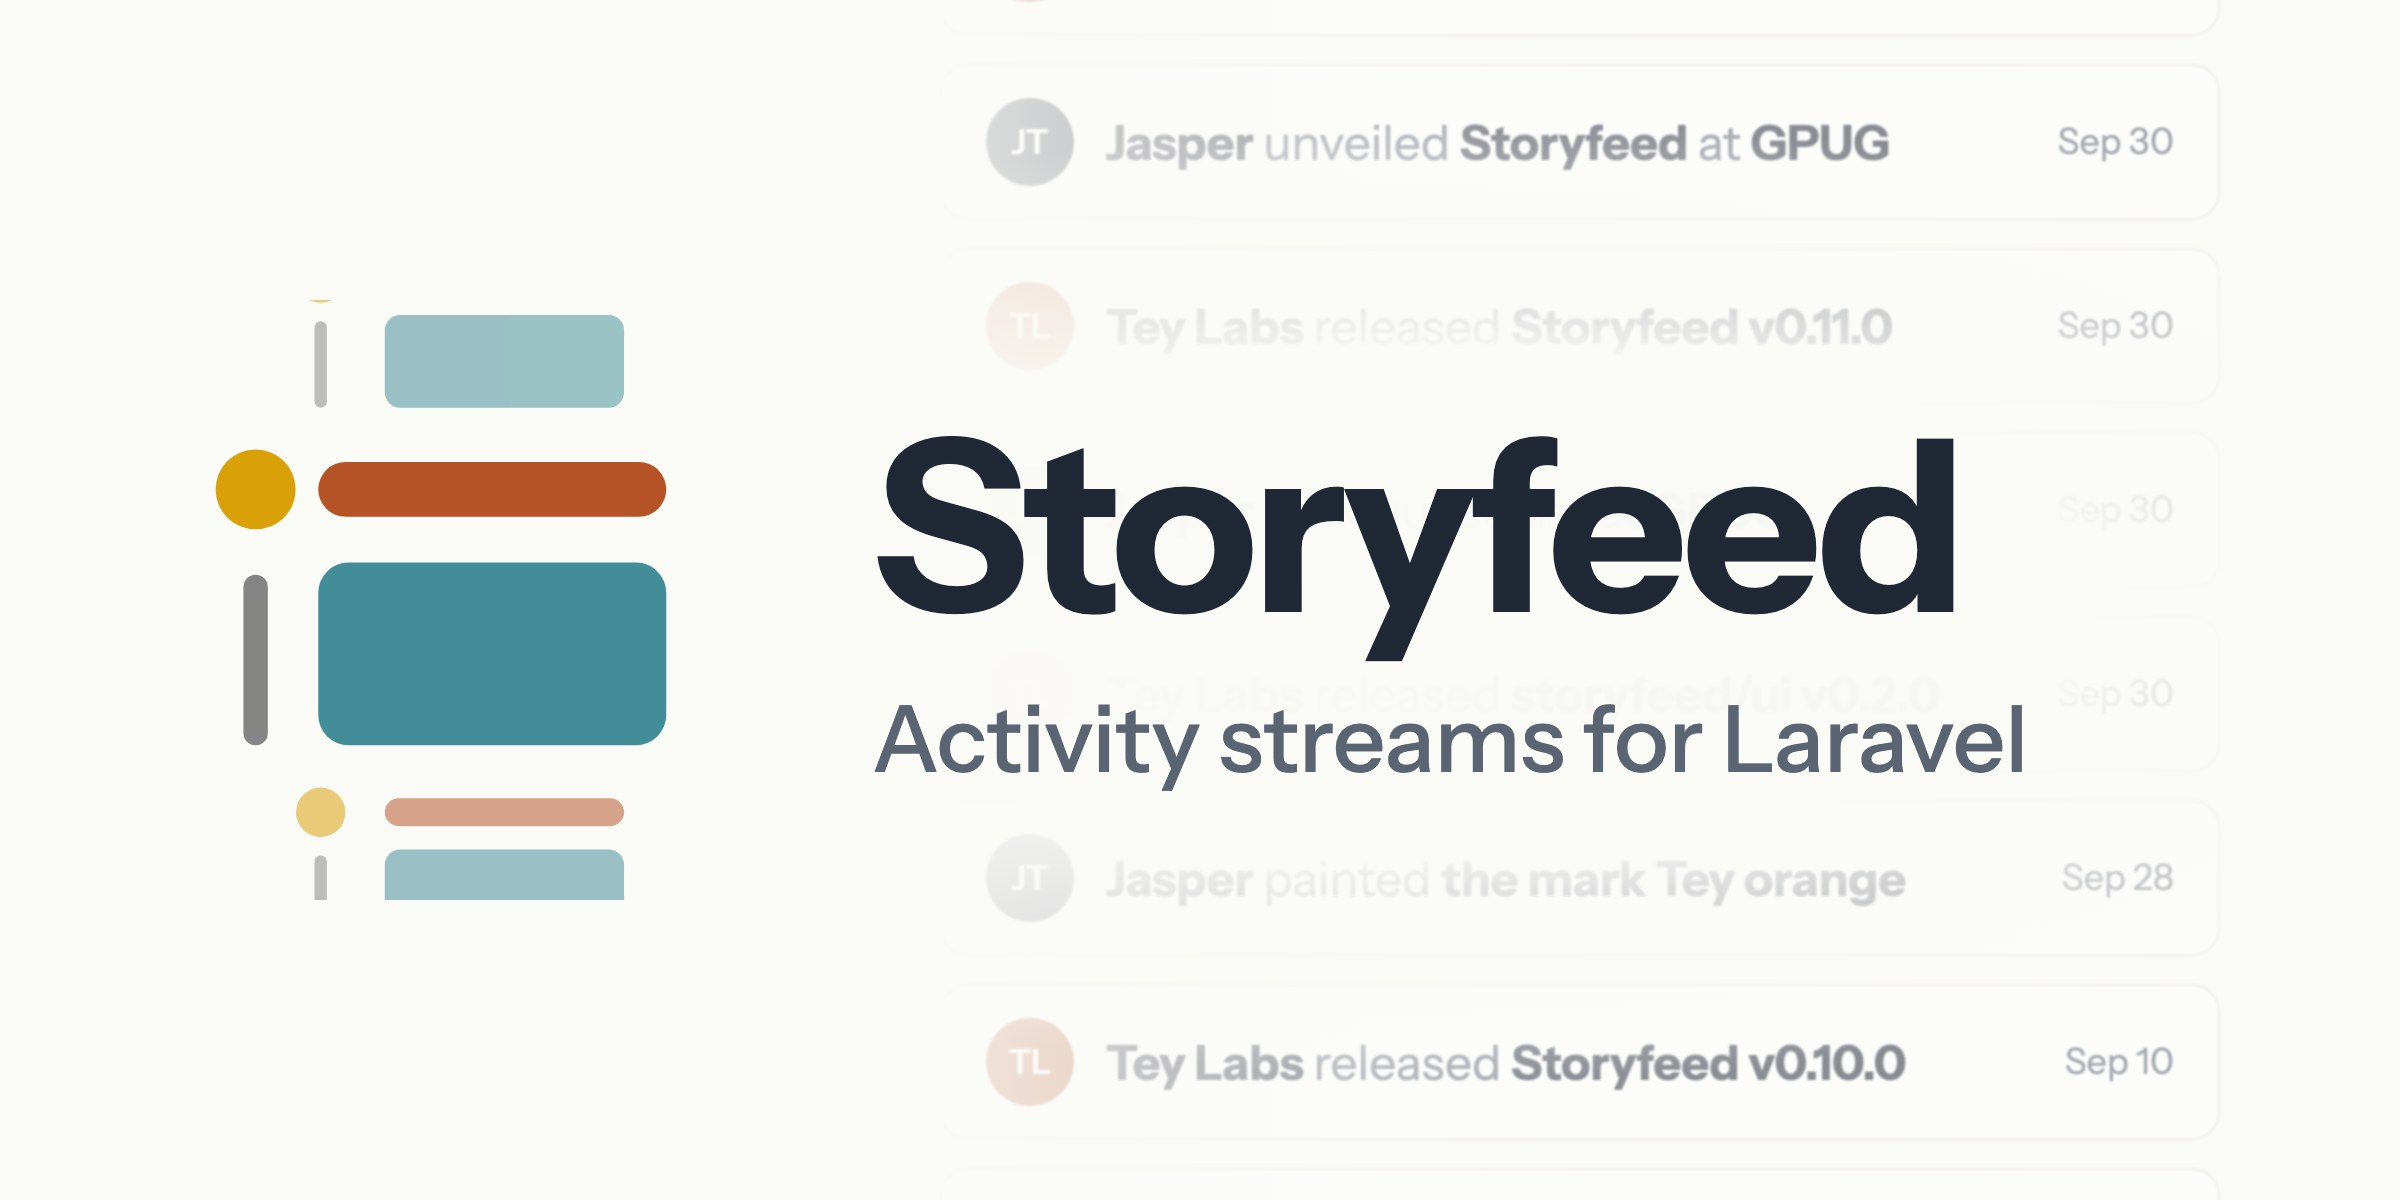
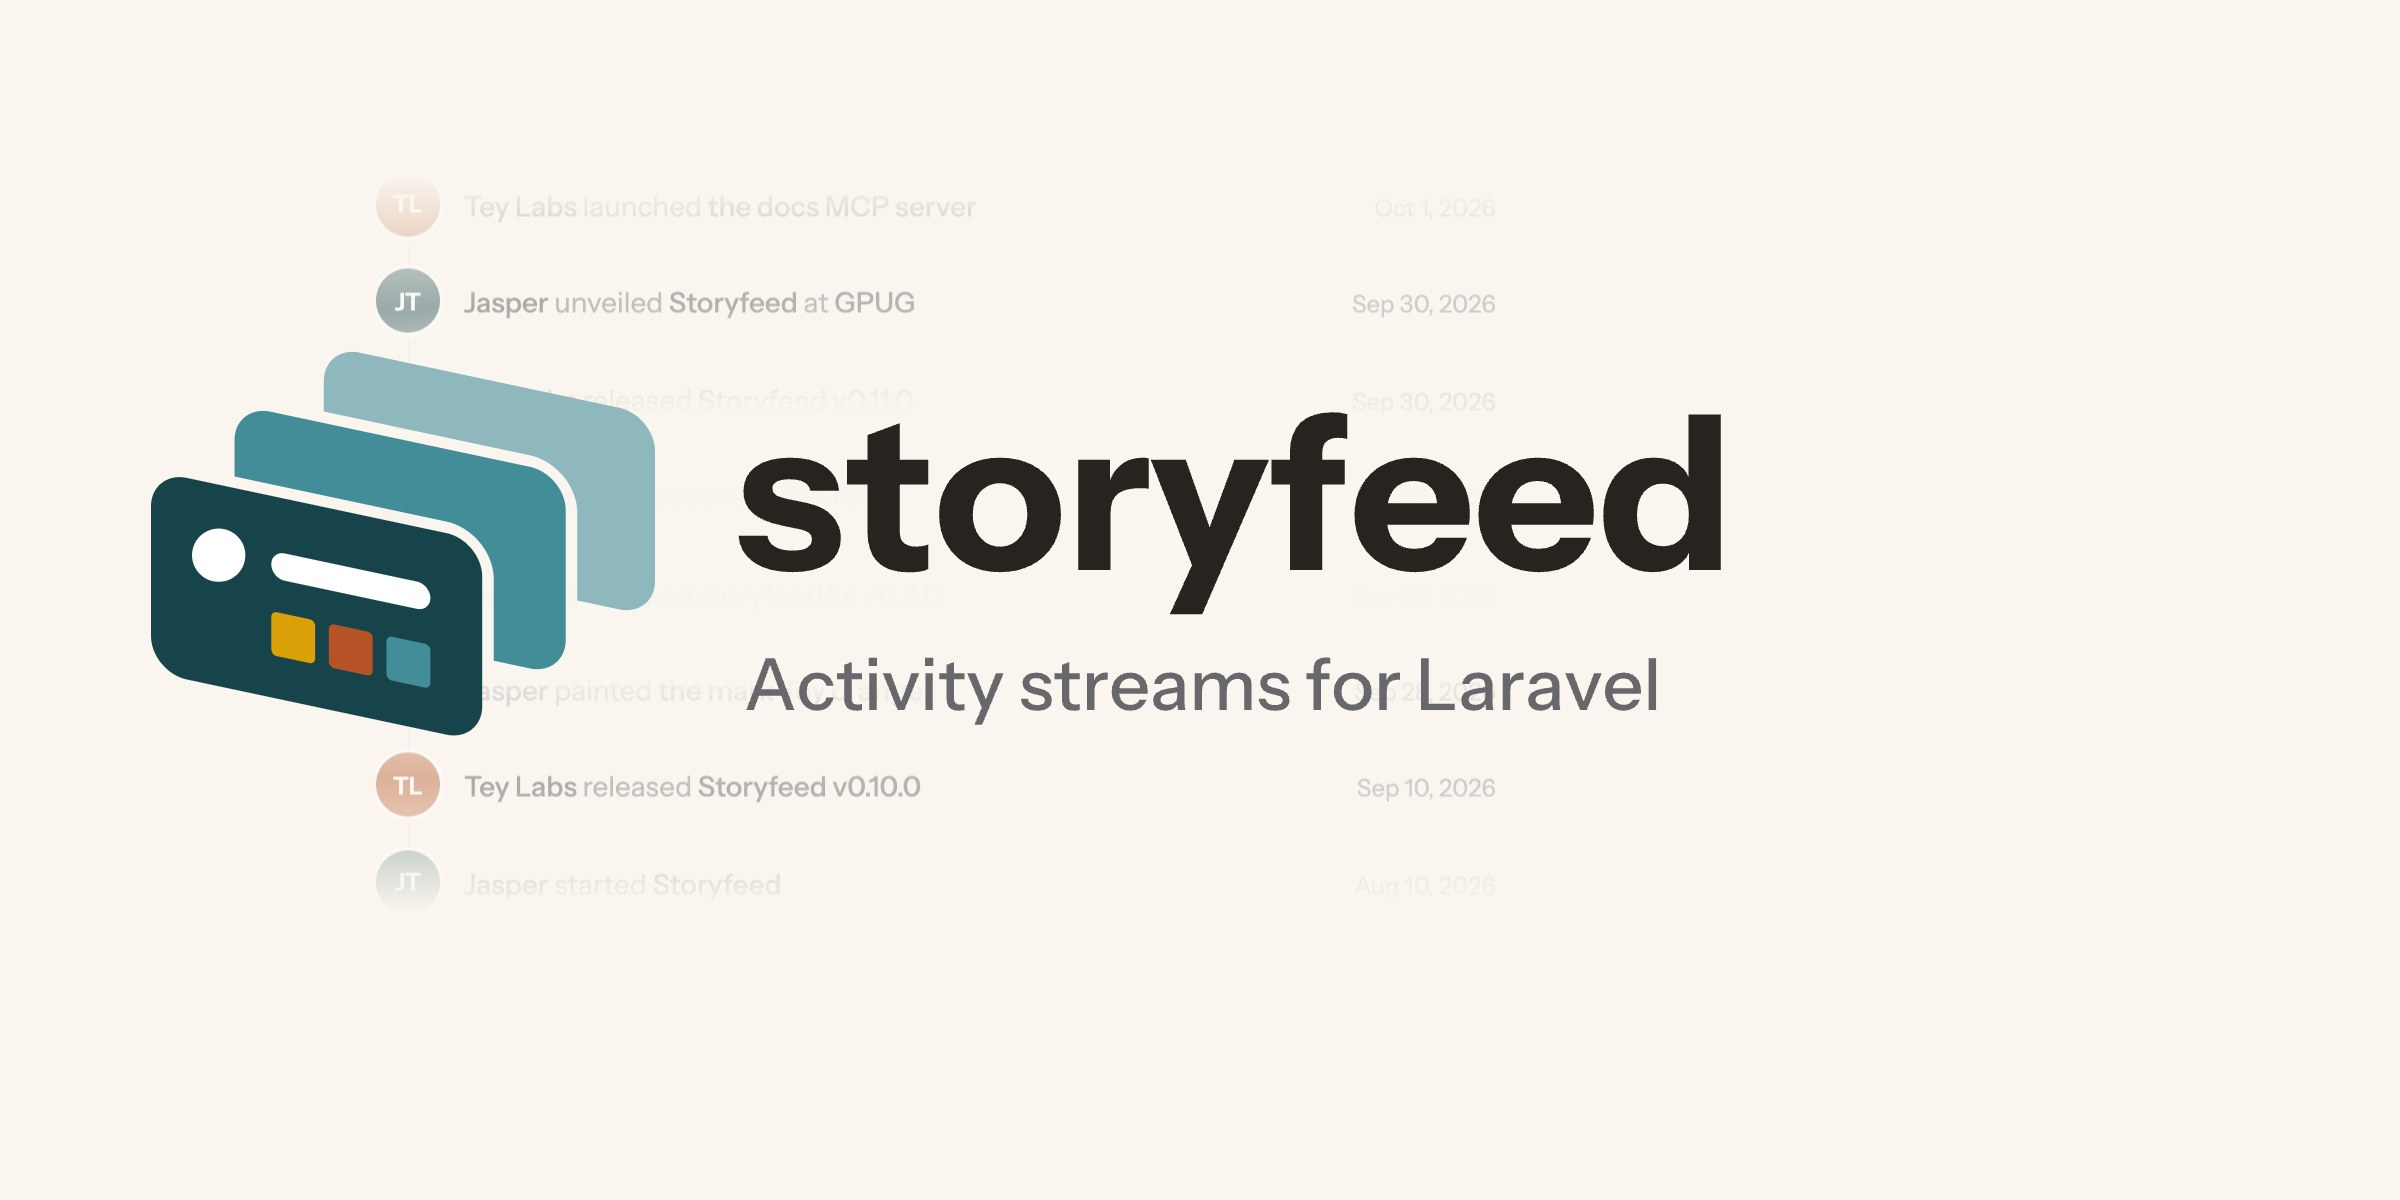
Apply approved Storyfeed identity to docs navigation and social assets

diff --git a/docs/.vitepress/config.ts b/docs/.vitepress/config.ts
@@ -137,21 +137,22 @@ export default defineConfig({
     ['meta', { property: 'article:publisher', content: 'Tey Labs' }],
     ['meta', { property: 'article:published_time', content: '2026-09-30T19:00:00-04:00' }],
     ['meta', { property: 'og:site_name', content: 'Storyfeed' }],
-    ['meta', { property: 'og:image', content: 'https://docs.storyfeed.dev/og-image.jpg?v=4' }],
+    ['meta', { property: 'og:image', content: 'https://docs.storyfeed.dev/og-image.jpg?v=tim08' }],
     ['meta', { property: 'og:image:type', content: 'image/jpeg' }],
     ['meta', { property: 'og:image:width', content: '2400' }],
     ['meta', { property: 'og:image:height', content: '1200' }],
-    ['meta', { property: 'og:image:alt', content: 'The Storyfeed mark and the words Storyfeed, Activity streams for Laravel, over a faded feed of Storyfeed milestones' }],
+    ['meta', { property: 'og:image:alt', content: 'The Storyfeed mark and lowercase wordmark above a quiet feed of Storyfeed milestones. Activity streams for Laravel.' }],
     ['meta', { name: 'twitter:card', content: 'summary_large_image' }],
-    ['meta', { name: 'twitter:image', content: 'https://docs.storyfeed.dev/og-image.jpg?v=4' }],
-    ['link', { rel: 'icon', href: '/favicon.ico?v=2', sizes: 'any' }],
-    ['link', { rel: 'icon', href: '/favicon.svg?v=2', type: 'image/svg+xml' }],
-    ['link', { rel: 'apple-touch-icon', href: '/apple-touch-icon.png?v=2' }],
+    ['meta', { name: 'twitter:image', content: 'https://docs.storyfeed.dev/og-image.jpg?v=tim08' }],
+    ['link', { rel: 'icon', href: '/favicon.ico?v=tim08', sizes: 'any' }],
+    ['link', { rel: 'icon', href: '/favicon.svg?v=tim08', type: 'image/svg+xml' }],
+    ['link', { rel: 'apple-touch-icon', href: '/apple-touch-icon.png?v=tim08' }],
     ['meta', { name: 'theme-color', content: '#0f172a' }],
   ],
 
   themeConfig: {
-    logo: { light: '/logo-light.svg', dark: '/logo-dark.svg' },
+    logo: { light: '/logo-light.svg?v=tim08', dark: '/logo-dark.svg?v=tim08', alt: 'Storyfeed' },
+    siteTitle: false,
 
     // The trifecta convention: every site's chrome links the other two, same
     // order everywhere — storyfeed.dev pitches, this site teaches, the

diff --git a/docs/.vitepress/theme/custom.css b/docs/.vitepress/theme/custom.css
@@ -362,3 +362,6 @@
     border-radius: 0;
   }
 }
+
+/* Outlined identity includes both the mark and lowercase wordmark. */
+.VPNavBarTitle .logo { width: 151px; height: 40px; margin-right: 0; }
